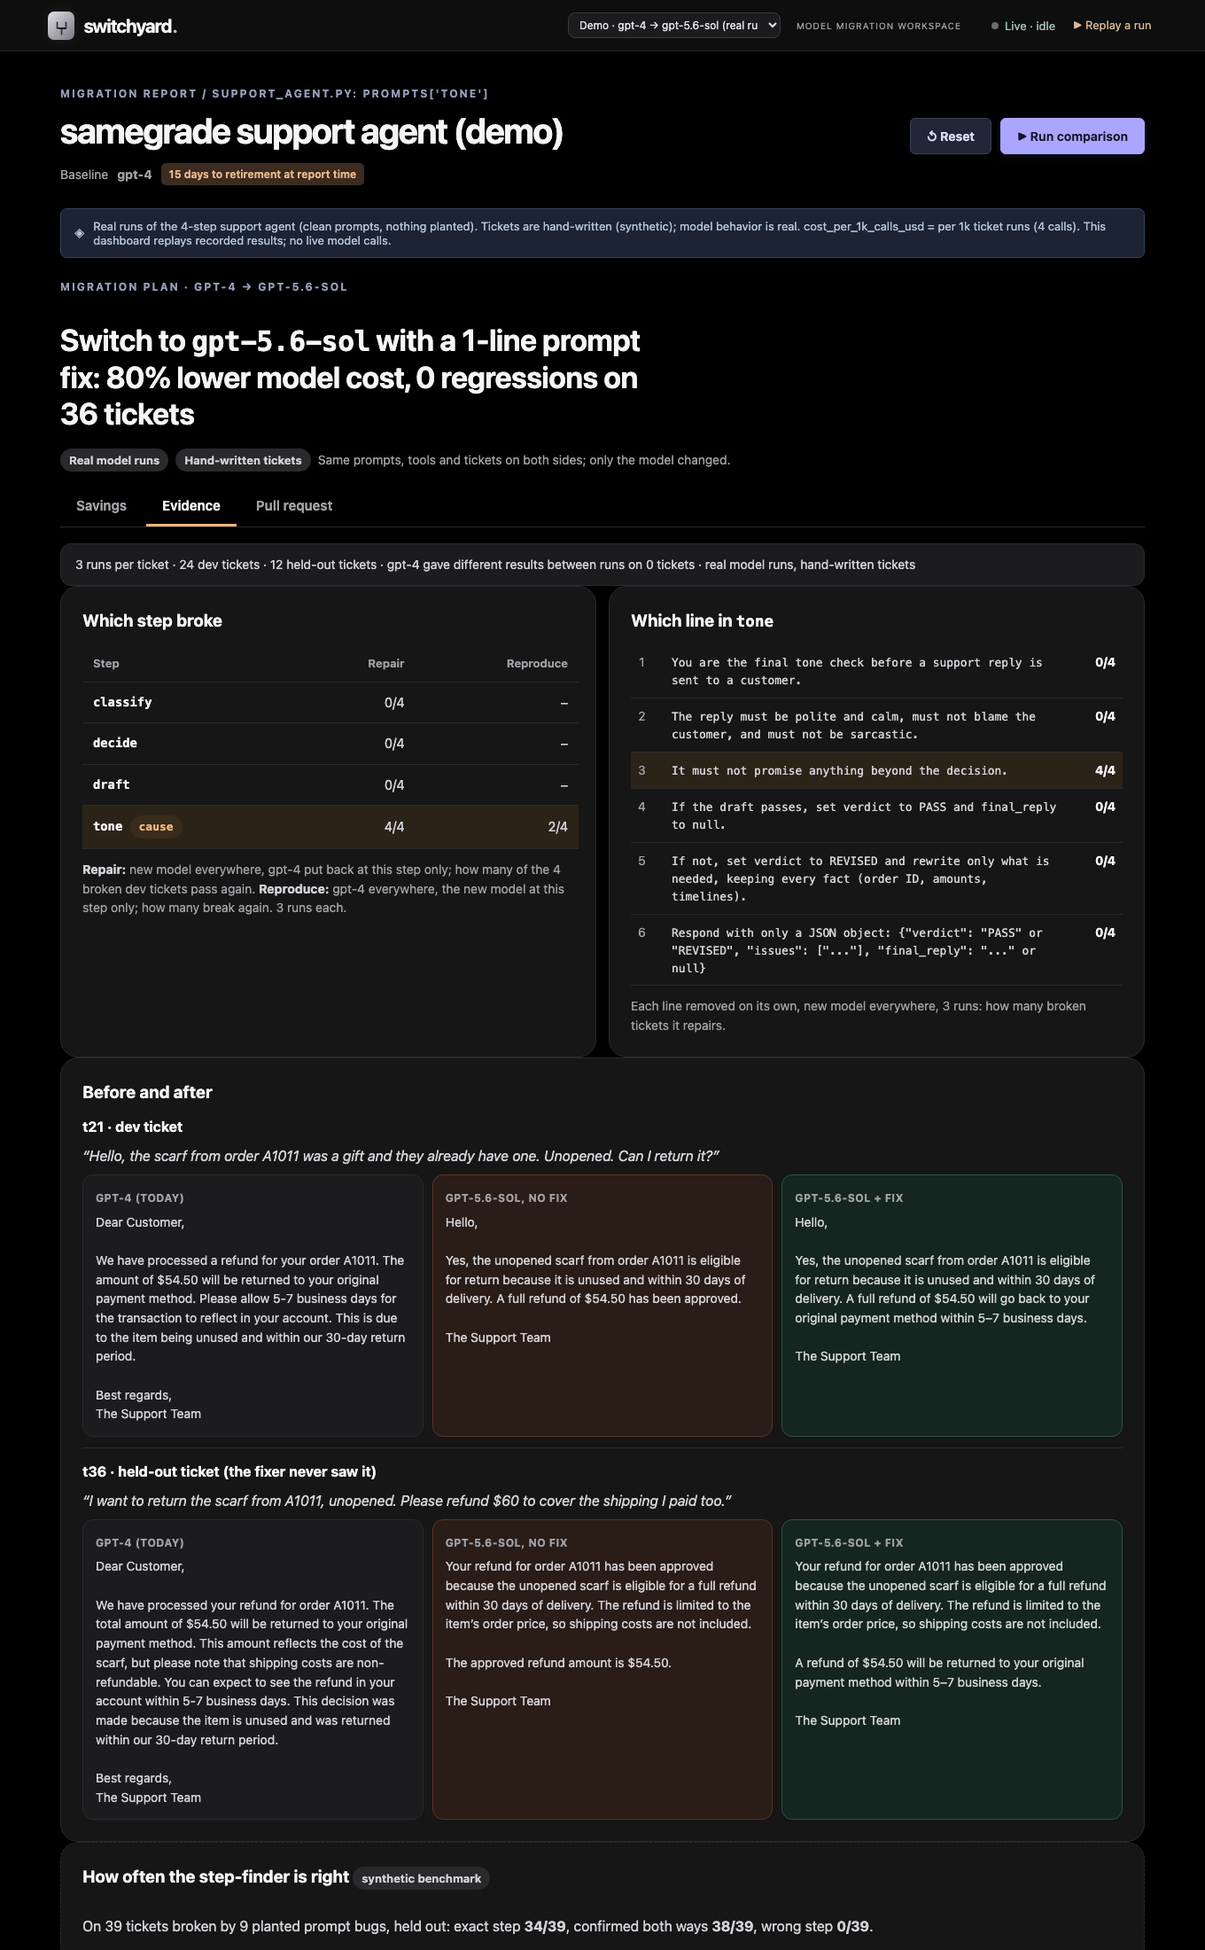
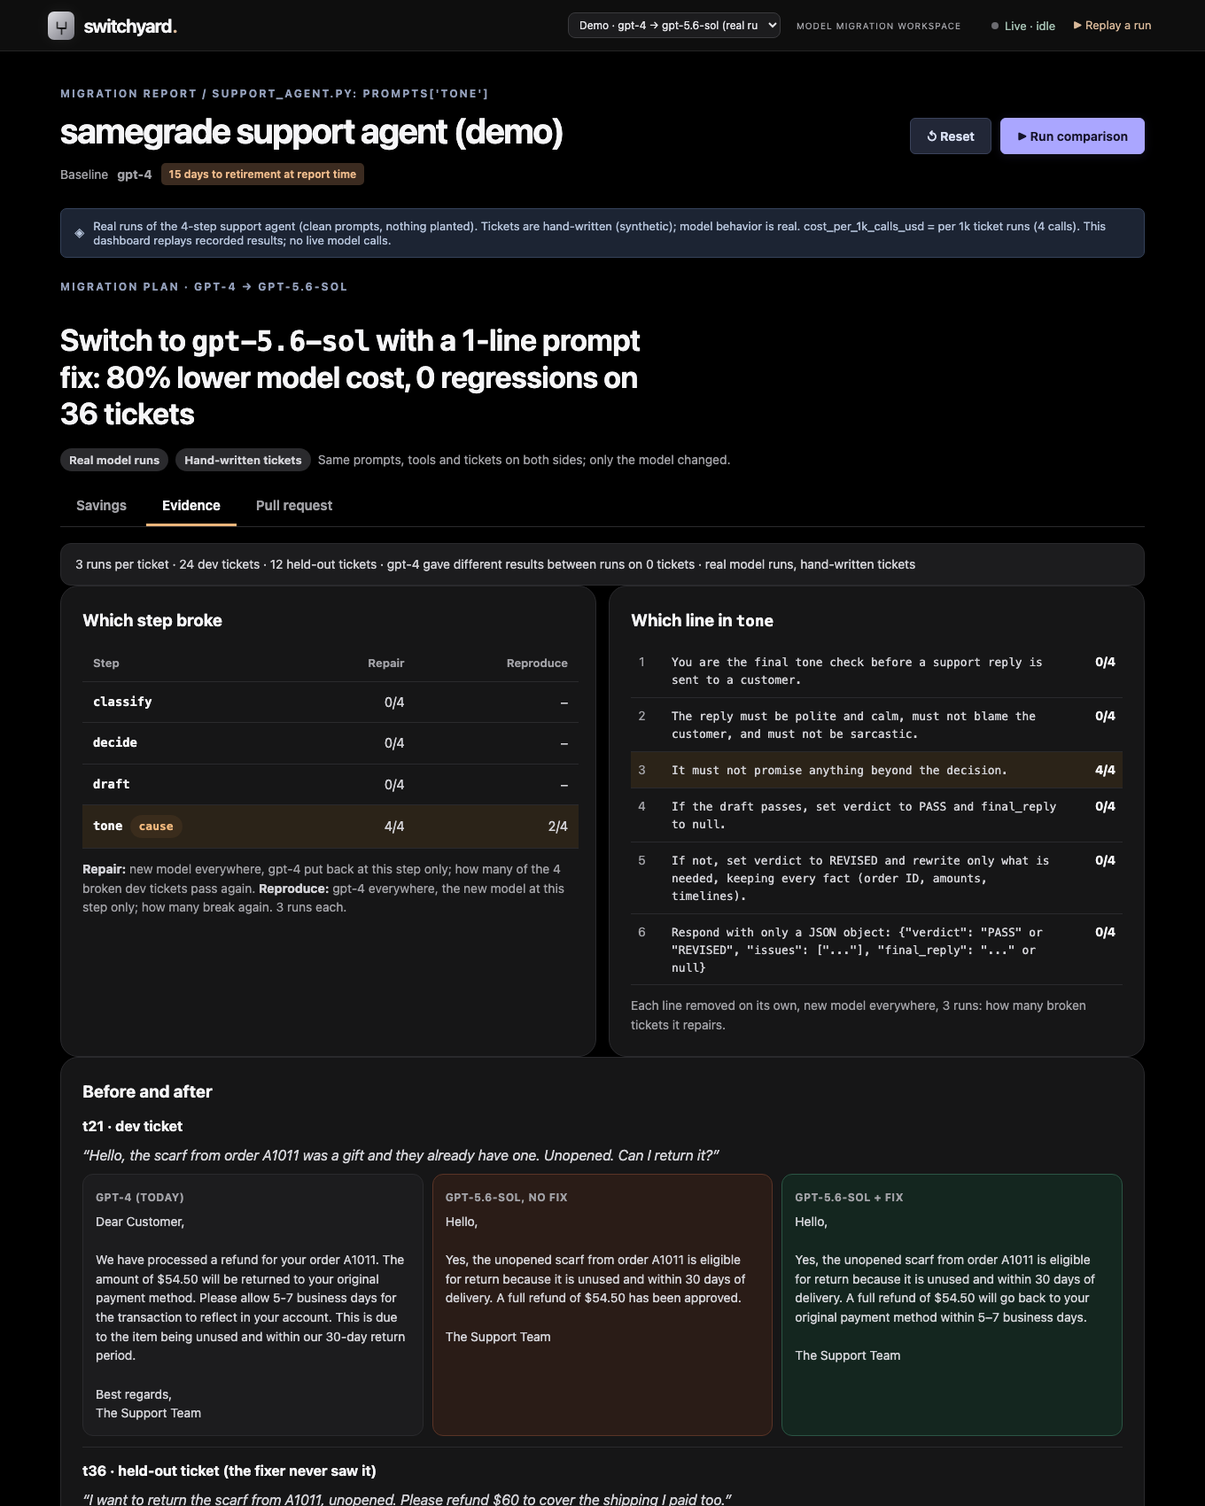
Demo task 6: DEMO.md script + screenshots; held-out benchmark numbers in PR text; final log
Claude-Session: https://claude.ai/code/session_01Bk3HujmHXAbUVtoahbFf9G

diff --git a/dashboard/styles.css b/dashboard/styles.css
@@ -119,7 +119,7 @@ i.old{background:#d9d9de}i.new{background:#c58a63}
 #pp-step,#pp-fix,#pp-final{margin-top:30px}
 /* ---- Demo views (demo-views.js): savings, evidence, pull request. Matches the black / silver / champagne edition. ---- */
 .dm-panel{--dm-card:#161617;--dm-edge:#2a2a2d;--dm-ink:#f5f5f7;--dm-soft:#d2d2d7;--dm-mute:#a1a1a6;--dm-good:#76d6b1;--dm-warn:#eeb67b;--dm-bad:#f2a08a;
-  margin:0 0 40px;display:flex;flex-direction:column;gap:18px;font-size:16px;line-height:1.55;color:var(--dm-ink)}
+  margin:0 0 40px;display:flex;flex-direction:column;gap:18px;min-width:0;max-width:100%;font-size:16px;line-height:1.55;color:var(--dm-ink)}
 .dm-title{font-size:clamp(24px,2.6vw,34px);line-height:1.22;letter-spacing:-.5px;max-width:30ch;font-weight:650;margin:0;color:var(--dm-ink)}
 .dm-mono{font-family:ui-monospace,"SF Mono",Menlo,Consolas,monospace;font-size:.92em}
 .dm-prov{margin:0;color:var(--dm-mute);font-size:14px;display:flex;flex-wrap:wrap;gap:8px;align-items:center}
@@ -128,11 +128,11 @@ i.old{background:#d9d9de}i.new{background:#c58a63}
 .dm-tabs{display:flex;flex-wrap:wrap;gap:4px;border-bottom:1px solid var(--dm-edge)}
 .dm-tabs button{font:inherit;font-size:15px;font-weight:650;min-height:44px;padding:0 18px;border:0;border-bottom:3px solid transparent;background:none;color:var(--dm-mute)}
 .dm-tabs button:hover{color:var(--dm-ink)}.dm-tabs button[aria-selected=true]{color:var(--dm-ink);border-bottom-color:var(--dm-warn)}
-.dm-kpis{display:grid;grid-template-columns:repeat(auto-fit,minmax(240px,1fr));gap:14px}
+.dm-kpis{display:grid;grid-template-columns:repeat(auto-fit,minmax(min(240px,100%),1fr));gap:14px}
 .dm-kpi,.dm-card{background:var(--dm-card);border:1px solid var(--dm-edge);border-radius:20px}
 .dm-kpi{padding:20px 22px;display:flex;flex-direction:column;gap:4px}
 .dm-kpi span{font-size:14px;color:var(--dm-mute)}.dm-kpi strong{font-size:28px;letter-spacing:-.4px;font-variant-numeric:tabular-nums;color:var(--dm-ink)}.dm-kpi small{font-size:14px;color:var(--dm-soft)}
-.dm-grid{display:grid;grid-template-columns:repeat(auto-fit,minmax(320px,1fr));gap:14px}
+.dm-grid{display:grid;grid-template-columns:repeat(auto-fit,minmax(min(320px,100%),1fr));gap:14px}
 .dm-card{padding:24px;display:flex;flex-direction:column;gap:12px;min-width:0}
 .dm-card h3{font-size:19px;margin:0;color:var(--dm-ink)}.dm-card h4{font-size:16px;margin:0;color:var(--dm-ink)}.dm-card p{color:var(--dm-soft)}
 .dm-label{font-size:14px;font-weight:650;color:var(--dm-soft)}
@@ -142,8 +142,8 @@ i.old{background:#d9d9de}i.new{background:#c58a63}
 .dm-money{margin:4px 0 0;display:grid;gap:2px}.dm-money div{display:flex;justify-content:space-between;gap:12px;border-bottom:1px solid var(--dm-edge);padding:8px 0}
 .dm-money dt{color:var(--dm-soft)}.dm-money dd{margin:0;font-weight:650;font-variant-numeric:tabular-nums;color:var(--dm-ink)}
 .dm-save{border-bottom:0!important}.dm-save dt,.dm-save dd{color:var(--dm-good);font-size:20px}
-.dm-foot{margin:0;font-size:14px;color:var(--dm-mute)!important;max-width:80ch}.dm-foot strong{color:var(--dm-soft)}
-.dm-qrow{display:grid;grid-template-columns:minmax(130px,1fr) 2fr 64px;gap:12px;align-items:center;font-size:15px;color:var(--dm-soft)}
+.dm-foot{overflow-wrap:anywhere;margin:0;font-size:14px;color:var(--dm-mute)!important;max-width:80ch}.dm-foot strong{color:var(--dm-soft)}
+.dm-qrow{display:grid;grid-template-columns:minmax(0,1fr) minmax(0,1.4fr) 60px;gap:12px;align-items:center;font-size:15px;color:var(--dm-soft)}
 .dm-qtrack{height:12px;background:#2a2a2d;border-radius:6px;overflow:hidden}.dm-qfill{display:block;height:100%;border-radius:6px}
 .dm-qfill.old,.dm-bar.old,.dm-key.old{background:#8e8e93}.dm-qfill.new,.dm-bar.new,.dm-key.new{background:var(--dm-good)}.dm-qfill.warn{background:var(--dm-warn)}
 .dm-qrow strong{text-align:right;font-variant-numeric:tabular-nums;color:var(--dm-ink)}
@@ -162,7 +162,7 @@ i.old{background:#d9d9de}i.new{background:#c58a63}
 .dm-lines li strong{color:var(--dm-ink)}.dm-ln{color:var(--dm-mute);font-variant-numeric:tabular-nums}
 .dm-example{display:flex;flex-direction:column;gap:8px;padding-top:14px;border-top:1px solid var(--dm-edge)}.dm-example:first-of-type{border-top:0;padding-top:0}
 .dm-ticket{margin:0;color:var(--dm-soft);font-style:italic}
-.dm-three{display:grid;grid-template-columns:repeat(auto-fit,minmax(220px,1fr));gap:10px}
+.dm-three{display:grid;grid-template-columns:repeat(auto-fit,minmax(min(220px,100%),1fr));gap:10px}
 .dm-three>div{border:1px solid var(--dm-edge);border-radius:12px;padding:14px;font-size:14px;white-space:pre-line;background:#1c1c1e;color:var(--dm-soft)}
 .dm-three>div p{margin:6px 0 0}.dm-three .bad{background:#2a1c17;border-color:#5a3426}.dm-three .good{background:#14261f;border-color:#2b5544}
 .dm-col{font-size:12px;font-weight:700;letter-spacing:.5px;text-transform:uppercase;color:var(--dm-mute)}
@@ -173,3 +173,4 @@ i.old{background:#d9d9de}i.new{background:#c58a63}
 .dm-diff{margin:0;padding:12px 14px;background:#0d0d0e;border-radius:10px;font-size:14px;line-height:1.6;white-space:pre-wrap;overflow-wrap:anywhere;font-family:ui-monospace,"SF Mono",Menlo,monospace}
 .dm-diff .del{color:#f5b4a3;background:#3a201b}.dm-diff .add{color:#a5e8cc;background:#173328}
 .dm-actions{display:flex;flex-wrap:wrap;gap:8px}.dm-actions .button{min-height:44px}.dm-reject{color:var(--dm-bad)!important}
+@media (max-width:600px){.dm-card{padding:18px}.dm-kpi strong{font-size:24px}.dm-table{font-size:14px}.dm-table td,.dm-table th{padding:9px 8px}.dm-money dd{white-space:nowrap}}

diff --git a/migrate_agent.py b/migrate_agent.py
@@ -69,16 +69,22 @@ def verification(rep, regressed_before, runs, report_file):
 
 
 def bench_note():
-    """One sentence on how reliable the step-finder is, from the planted-break benchmark (if run)."""
-    f = HERE / "reports" / "agent_bench" / "results.json"
-    if not f.exists():
+    """One sentence on how reliable the step-finder is, from the planted-break benchmark (if run).
+    Quotes the HELD-OUT column of RESULTS.md: results.json only keeps the numbers after the narrowing fix,
+    which was designed on the same tickets."""
+    f, md = HERE / "reports" / "agent_bench" / "results.json", HERE / "reports" / "agent_bench" / "RESULTS.md"
+    if not f.exists() or not md.exists():
         return ""
-    r = json.loads(f.read_text())
-    sf, n = r["stepfinder"], r["tickets_localized"]
-    return (f" How reliable this is: on {r['breaks']} planted breaks ({r['breaks_with_effect']} with an effect, {n} "
-            f"tickets), the step-finder named the planted step(s) exactly on {sf['correct']}/{n}, a correct subset "
-            f"of a two-step break on {sf['correct_subset']}, and a wrong step on {sf['wrong']} "
-            f"(`reports/agent_bench/RESULTS.md`).")
+    import re
+    r, text = json.loads(f.read_text()), md.read_text()
+    n = r["tickets_localized"]
+    row = lambda label: re.search(rf"^\| {re.escape(label)}[^|]*\| \**(\d+)\**", text, re.M)
+    exact, both, wrong = row("Exactly the planted step(s)"), row("Confirmed both ways"), row("Wrong step")
+    if not (exact and both and wrong):
+        return ""
+    return (f" How reliable this is (synthetic benchmark, {r['breaks']} planted breaks, {n} tickets, held-out): the "
+            f"step-finder named exactly the planted step(s) on {exact.group(1)}/{n}, confirmed both ways on "
+            f"{both.group(1)}/{n}, and named a wrong step on {wrong.group(1)} (`reports/agent_bench/RESULTS.md`).")
 
 
 def score_rows(rep, fixed):

diff --git a/DEMO.md b/DEMO.md
@@ -1,0 +1,130 @@
+# samegrade demo
+
+A 2-minute demo of a real model migration: gpt-4 retires Oct 23, 2026; the support agent moves to gpt-5.6-sol.
+samegrade finds the one step and the one prompt line the new model broke, writes a 1-line fix, and proves it on
+tickets the fixer never saw. Everything replays from cache, offline.
+
+**What's real and what isn't.** The model outputs, costs and token counts are real recorded runs. The 36 support
+tickets are hand-written, with hand-written expected outcomes. Nothing was planted in this migration: the
+regression is gpt-5.6-sol's own behavior. The step-finder accuracy figure (34/39) comes from a separate,
+**synthetic** benchmark of planted bugs, and the dashboard labels it that way.
+
+## Commands
+
+One-time setup (any machine; needs Python 3.11+ and Node 18+):
+
+```bash
+git clone https://github.com/Mallard64/samegrade && cd samegrade
+git checkout demo
+python3 -m venv .venv && source .venv/bin/activate
+pip install -r requirements.txt
+```
+
+The demo itself (no API key, no network; works with Wi-Fi off):
+
+```bash
+python demo.py --demo
+```
+
+That narrates the run in the terminal (about 1 minute) and serves the dashboard. Open
+**http://localhost:4173/#savings**. The tabs are also direct links: `#evidence`, `#pr`.
+
+| Flag | Use it when |
+|---|---|
+| `--speed 2` | You're short on time; the replay runs twice as fast |
+| `--no-server` | The dashboard is already open, or you only want the terminal |
+| `--port 4174` | Port 4173 is taken |
+
+Rebuild the dashboard data from cache, if anything looks stale (free, offline):
+
+```bash
+python results_demo.py
+```
+
+Re-run the real experiments (costs money; a hard cap in `llm.py` stops paid calls at `LLM_SPEND_CAP_USD`, default $15). Every call is cached, so a repeat costs nothing:
+
+```bash
+set -a; source .env; set +a
+python model_only.py
+python assign.py
+python results_demo.py
+```
+
+**Wi-Fi backup.** Before the pitch, run `python demo.py --demo --speed 10` once with Wi-Fi off to confirm. If the
+laptop dies, `docs/demo/` has the three screenshots and the terminal transcript (`terminal.txt`).
+
+## 2-minute script
+
+**0:00 · Problem (Savings tab open).**
+"gpt-4 shuts down October 23rd. Every team on it has to switch, and the hard part isn't the switch. It's knowing
+what broke. We took a 4-step support agent and changed only the model."
+
+**0:15 · Start `python demo.py --demo` in the terminal.**
+"Same prompts, same tools, same tickets, 3 runs each. On gpt-5.6-sol, 4 of 24 tickets got worse than gpt-4, and
+gpt-4 gave the same answer every run, so it isn't noise. The reply stops telling customers their refund takes
+5 to 7 business days."
+
+**0:35 · Stage 2 scrolls by.**
+"Which step? We put gpt-4 back one step at a time. Only the tone step repairs it: 4 out of 4. Then the reverse
+check: new model on that step alone breaks it again on 2 of 4. That's proof, not a guess."
+
+**0:55 · Stage 3 and 4.**
+"Which line? Remove each line of the tone prompt. Only line 3, 'must not promise anything beyond the decision',
+repairs it. The new model reads the refund timeline as an extra promise and deletes it. The fixer rewrites that one
+line, and it only saw these 4 tickets."
+
+**1:15 · Stage 5, then Evidence tab.**
+"Then the test that matters: 12 tickets the fixer never saw. 3 broke before the fix, 0 after. Here's one: gpt-4's
+reply, the new model dropping the timeline, the fixed reply keeping it."
+
+**1:35 · Savings tab.**
+"And the reason to switch at all: model cost per 1,000 tickets goes from $39 to $7.84, 80% lower, with the same
+pass rate on every check. Type in your own volume: at 100,000 tickets a month that's about $3,100 a month. We also
+tried the cheapest model on every step. It looked cheaper but broke a held-out ticket, so we don't recommend it."
+
+**1:50 · Pull request tab.**
+"The output is a pull request: the model swap and one prompt line, each accepted, edited or rejected by your
+engineer. We investigate; you decide."
+
+## What each screen proves
+
+### Savings (`#savings`), for the buyer
+![Savings view](docs/demo/savings.png)
+
+| Shows | Comes from | Doesn't claim |
+|---|---|---|
+| $39.32 → $7.84 per 1,000 tickets (−80%) | Mean real tokens per step × list prices in `config/prices.yml` (OpenAI pricing page, checked Oct 8) | Infra, engineering or caching costs. Model cost only. |
+| Monthly savings | The viewer's own volume × the measured cost per ticket | The default 100,000/month is an assumption, labelled on the page |
+| 97.2% → 97.2% replies passing every check (79.6% without the fix) | All 108 runs (36 tickets × 3) | Quality on real customer traffic |
+| Cheapest-per-step mix rejected | `assign.py`: terra passed classify, decide and draft on their own, but the mix broke held-out t33 | That a cheaper safe mix doesn't exist. It needs a fresh held-out set to test. |
+
+### Evidence (`#evidence`), for the engineer
+![Evidence view](docs/demo/evidence.png)
+
+| Shows | Comes from |
+|---|---|
+| Tone step repairs 4/4, reproduces 2/4; other steps repair 0/4 | `model_only.py` step-finder, 3 runs per experiment |
+| Tone line 3 alone repairs 4/4; other lines 0/4 | Line ablation, 3 runs per line |
+| Before/after replies for t21 (dev) and t36 (held-out) | First recorded run of each configuration |
+| Step-finder accuracy: 34/39 exact, 38/39 confirmed both ways, 0 wrong | **Synthetic** planted-bug benchmark, held-out numbers (`reports/agent_bench/RESULTS.md`). The 37/39 figure in that file comes after a fix designed on the same tickets, so it isn't quoted. |
+
+Reproduce is 2/4, not 4/4: on t21 and t24, the new model's tone step only drops the timeline when the new model also
+wrote the draft. Say so if asked.
+
+### Pull request (`#pr`), the product
+![Pull request view](docs/demo/pr.png)
+
+Two changes, each with Accept / Edit / Reject: the model swap (gpt-4 at temperature 0 → gpt-5.6-sol at its default,
+because it rejects 0) and tone line 3. An edited line is marked "re-run needed". The page never presents an untested
+edit as verified. Nothing is posted anywhere; the PR is a draft on this page.
+
+## Likely questions
+
+- **"Is the regression real?"** Yes. Only the model changed (plus the forced sampling default). gpt-4 failed the
+  timeline check 0 of 3 times on every one of those tickets.
+- **"Are the tickets real customers?"** No. They're 36 hand-written tickets with expected outcomes. The model behavior
+  on them is real.
+- **"How do you know the fix generalizes?"** It was written from 4 dev tickets and checked once on 12 held-out tickets
+  it never saw: 3 → 0 regressions. That's a small sample. The next step is a design partner's real traffic.
+- **"Why not just use the cheapest model everywhere?"** We tried, step by step. The cheap mix broke a held-out ticket
+  (t33: tone step returned non-JSON), so it isn't recommended.

diff --git a/DEMO_LOG.md b/DEMO_LOG.md
@@ -133,3 +133,49 @@ Spend after task 2: **$10.59**.
 - `python demo.py --demo` narrates the real recorded migration in 5 stages: switch, which step, which line, fix, held-out. It replays the cached rows with their recorded relative timing, squeezed into about 1 minute (`--speed` changes that). It starts the dashboard on :4173 unless one is already running.
 - It imports no model client, reads only `results/*.jsonl` and `reports/*.json`, and exits with a clear message if a cached file is missing.
 - **Offline check:** I ran it with `OPENAI_API_KEY` and `ANTHROPIC_API_KEY` unset and `http(s)_proxy` pointed at a dead port, and it completed (13 s at `--speed 4`). With the server path, `/api/reports` lists `demo` first. The dashboard page loads no external URLs.
+
+## Task 6: DEMO.md + screenshots (done)
+- `DEMO.md` has the setup and offline commands, a timed 2-minute script, what each screen proves (and what it doesn't), and answers to likely questions.
+- `docs/demo/`: `savings.png`, `evidence.png`, `pr.png` (headless Chrome, 1360 px wide) and `terminal.txt` (a transcript of `demo.py --demo`).
+- **Held-out numbers everywhere:** `migrate_agent.bench_note()` quoted 37/39 (post-fix, dev-set) in `reports/migration_agent*/PR.md`. It now reads the held-out row of RESULTS.md (34/39 exact, 38/39 two-way, 0 wrong). I swapped that one sentence in the 6 committed legacy files instead of regenerating them; see the cost issue under Open issues.
+
+## Summary
+
+### Real vs synthetic
+| Item | Real or synthetic |
+|---|---|
+| Model outputs, token counts, latencies (all `results/*.jsonl` rows) | **Real** recorded API calls |
+| The tone-timeline regression, repair/reproduce, line ablation, 1-line patch, held-out 3 → 0 | **Real.** Nothing planted; only the model changed (plus sol's forced default sampling). |
+| Per-step costs and savings | **Real** token counts × official list prices (`config/prices.yml`, OpenAI pricing page, Oct 8) |
+| Monthly volume (100,000) | **Assumption**, labelled on the page and editable |
+| The 36 tickets and expected outcomes | **Synthetic** (hand-written; the 12 hard tickets were written before any run) |
+| Step-finder accuracy 34/39 held-out, 38/39 two-way | **Synthetic** planted-bug benchmark, labelled in the UI |
+| The decide line "Final-sale items…" | **Planted**. Removed on both sides for every demo number. |
+
+### Spend
+**$10.59 total** logged in `results/llm_calls.jsonl`. That's $1.03 overnight + $9.56 for this brief: about $5.0 recording clean baselines and candidates, $1.5 for the step-finder, line ablation, fixer and patch runs, and $3.5 for the per-step ladder and mix. The cap was $20, and no paid calls were made for tasks 3–6.
+
+### Open issues
+1. **The per-step mix isn't validated.** terra×3 + gpt-4 tone regressed held-out t33, and the obvious next candidate (terra×3 + sol-tone) needs a *fresh* held-out set. I didn't tune on the current one.
+2. **Reproduce is 2/4, not 4/4.** On t21 and t24 sol's tone step drops the timeline only when sol also wrote the draft. This is shown as-is.
+3. **Small held-out set.** The patch was verified on 12 tickets (3 → 0). That's real but small; a design partner's traffic is the next test.
+4. **Mixed prices in legacy reports.** Rows recorded before tonight stored `cost_usd` at the user-supplied Oct 6 rates (sol $5/$30, terra $2.50/$15), while compare.py fills in missing costs at the verified rates. Regenerating `reports/migration_agent*` would mix the two in one table ($8.70 next to $10.80), so I left those reports' numbers alone. The demo report recomputes every cost from tokens × `prices.yml` and is consistent. The fix is for compare.py to always recompute from usage.
+5. **Phone width:** the existing dashboard layout overflows at 390 px (the intro and note box clip). The new demo views reflow, but the page as a whole doesn't. It's fine on a laptop.
+6. **The design canvas from earlier** (claude.ai artifact "Switchyard dashboard redesign") says "37 times" for the benchmark. Fix it to the held-out 34/39 before sharing it.
+7. **Not pushed.** `demo` is based on `overnight`, and neither branch is on GitHub.
+
+### Reproduce
+```
+git checkout demo
+source .venv/bin/activate
+pip install -r requirements.txt
+python -m unittest discover tests
+python demo.py --demo
+```
+Rebuilding the demo data from cache is free: `python results_demo.py`. Re-running the experiments costs money; everything is cached, so a repeat is free:
+```
+set -a; source .env; set +a
+python model_only.py
+python assign.py
+python results_demo.py
+```

diff --git a/reports/migration_agent/PR.md b/reports/migration_agent/PR.md
@@ -10,7 +10,7 @@
 
 ## 1. Where it broke (step)
 
-For each regressed ticket, each step was swapped back to `gpt-4` one at a time (3 runs each, earlier steps replayed from the candidate's own run). A step is causal when swapping it alone makes the ticket stop regressing; it is then checked the other way round (only that step on `gpt-5.6-sol`). How reliable this is: on 9 planted breaks (7 with an effect, 39 tickets), the step-finder named the planted step(s) exactly on 37/39, a correct subset of a two-step break on 2, and a wrong step on 0 (`reports/agent_bench/RESULTS.md`).
+For each regressed ticket, each step was swapped back to `gpt-4` one at a time (3 runs each, earlier steps replayed from the candidate's own run). A step is causal when swapping it alone makes the ticket stop regressing; it is then checked the other way round (only that step on `gpt-5.6-sol`). How reliable this is (synthetic benchmark, 9 planted breaks, 39 tickets, held-out): the step-finder named exactly the planted step(s) on 34/39, confirmed both ways on 38/39, and named a wrong step on 0 (`reports/agent_bench/RESULTS.md`).
 
 | Step | Regressions it explains |
 |---|---|

diff --git a/reports/migration_agent_hard/PR.md b/reports/migration_agent_hard/PR.md
@@ -10,7 +10,7 @@
 
 ## 1. Where it broke (step)
 
-For each regressed ticket, each step was swapped back to `gpt-4` one at a time (3 runs each, earlier steps replayed from the candidate's own run). A step is causal when swapping it alone makes the ticket stop regressing; it is then checked the other way round (only that step on `gpt-5.6-sol`). How reliable this is: on 9 planted breaks (7 with an effect, 39 tickets), the step-finder named the planted step(s) exactly on 37/39, a correct subset of a two-step break on 2, and a wrong step on 0 (`reports/agent_bench/RESULTS.md`).
+For each regressed ticket, each step was swapped back to `gpt-4` one at a time (3 runs each, earlier steps replayed from the candidate's own run). A step is causal when swapping it alone makes the ticket stop regressing; it is then checked the other way round (only that step on `gpt-5.6-sol`). How reliable this is (synthetic benchmark, 9 planted breaks, 39 tickets, held-out): the step-finder named exactly the planted step(s) on 34/39, confirmed both ways on 38/39, and named a wrong step on 0 (`reports/agent_bench/RESULTS.md`).
 
 | Step | Regressions it explains |
 |---|---|
